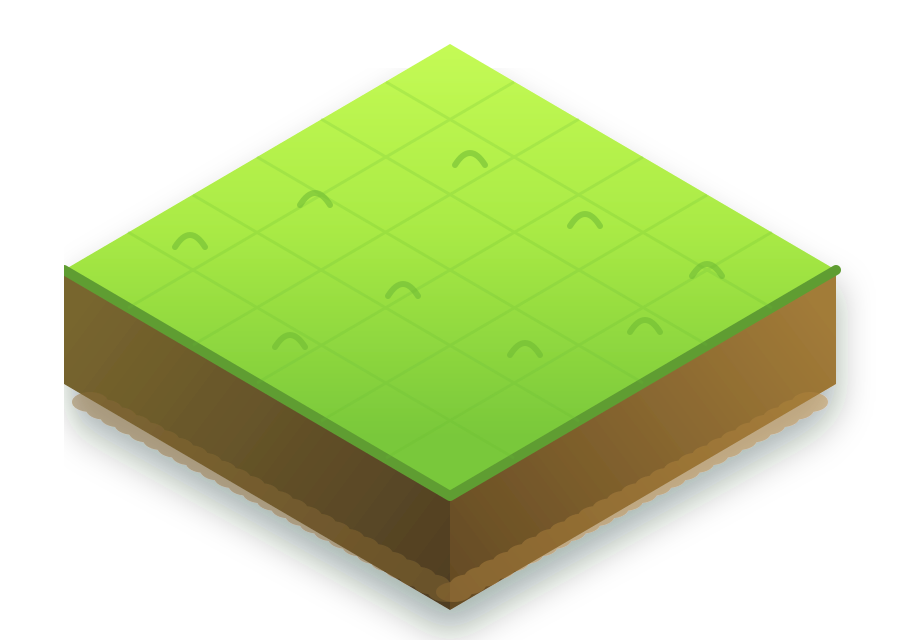
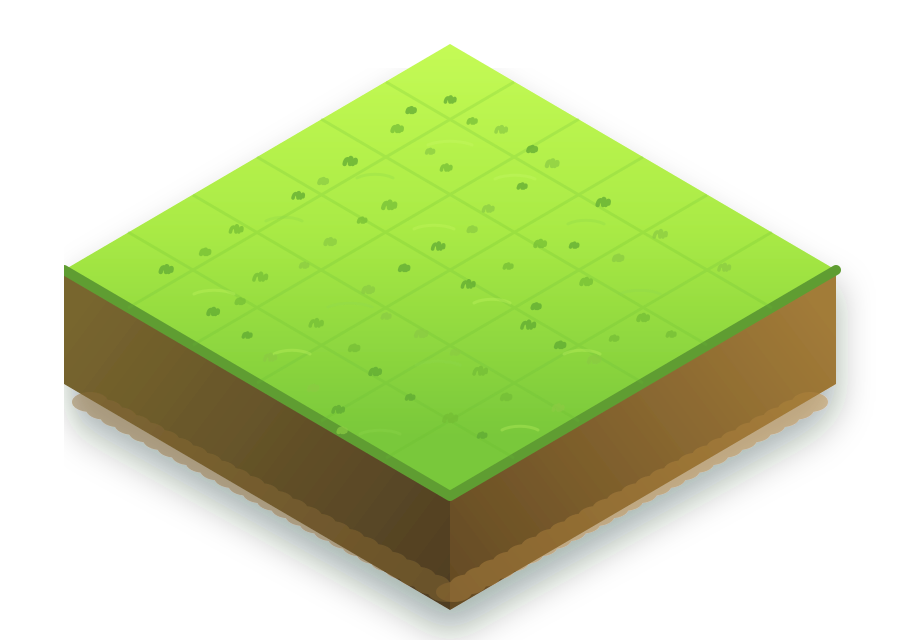
feat: enhance island SVG generation with detailed grass elements and add preview images

diff --git a/scripts/generateForestAssets.js b/scripts/generateForestAssets.js
@@ -55,19 +55,67 @@ function islandSvg() {
       }).join("")}
     </g>
 
-    <g stroke="#6cb833" stroke-width="6" stroke-linecap="round" opacity="0.55">
-      <path d="M175 247C185 231 195 231 205 247"/>
-      <path d="M300 205C310 189 320 189 330 205"/>
-      <path d="M455 165C465 149 475 149 485 165"/>
-      <path d="M570 226C580 210 590 210 600 226"/>
-      <path d="M692 276C702 260 712 260 722 276"/>
-      <path d="M388 296C398 280 408 280 418 296"/>
-      <path d="M510 355C520 339 530 339 540 355"/>
-      <path d="M275 347C285 331 295 331 305 347"/>
-      <path d="M630 332C640 316 650 316 660 332"/>
-    </g>
+    ${grassDetails()}
   </g>
 </svg>`;
+}
+
+function grassDetails() {
+  const tufts = [
+    [450, 102, 0.58], [397, 131, 0.56], [501, 132, 0.62],
+    [350, 164, 0.68], [446, 170, 0.58], [552, 166, 0.64],
+    [298, 198, 0.62], [389, 208, 0.72], [488, 211, 0.58], [603, 205, 0.68],
+    [236, 232, 0.7], [330, 244, 0.56], [438, 249, 0.68], [540, 246, 0.58], [660, 237, 0.72],
+    [166, 272, 0.66], [260, 280, 0.76], [368, 292, 0.58], [468, 287, 0.7], [586, 284, 0.58], [724, 270, 0.64],
+    [213, 314, 0.58], [316, 326, 0.72], [421, 336, 0.62], [528, 328, 0.76], [643, 320, 0.58],
+    [270, 360, 0.66], [375, 374, 0.58], [480, 374, 0.74], [594, 362, 0.64],
+    [338, 412, 0.62], [450, 421, 0.72], [558, 410, 0.58],
+    [411, 112, 0.44], [472, 123, 0.48], [323, 183, 0.46], [522, 188, 0.46],
+    [205, 254, 0.5], [304, 267, 0.44], [404, 270, 0.5], [508, 268, 0.46], [618, 260, 0.5],
+    [247, 337, 0.46], [354, 350, 0.5], [455, 354, 0.44], [560, 347, 0.5], [671, 336, 0.46],
+    [313, 390, 0.5], [410, 399, 0.44], [506, 399, 0.5],
+    [430, 153, 0.42], [532, 151, 0.46], [362, 222, 0.44], [472, 231, 0.42],
+    [574, 247, 0.44], [240, 303, 0.42], [386, 318, 0.46], [536, 308, 0.42],
+    [614, 340, 0.44], [342, 432, 0.42], [482, 437, 0.44],
+  ];
+
+  const softStrokes = [
+    [450, 145, 22], [375, 178, 18], [515, 179, 20], [284, 221, 18], [434, 229, 20],
+    [586, 224, 18], [214, 294, 20], [350, 307, 22], [492, 303, 18], [640, 294, 20],
+    [292, 354, 18], [438, 365, 22], [582, 354, 18], [380, 434, 20], [520, 430, 18],
+  ];
+
+  const tuftPaths = tufts.map(([x, y, scale], index) => {
+    const color = index % 3 === 0 ? "#5da832" : index % 3 === 1 ? "#73bd34" : "#8acb43";
+    const width = (3.6 + (index % 2) * 0.8).toFixed(1);
+    const left = coord(x - 8 * scale);
+    const right = coord(x + 8 * scale);
+    const center = coord(x);
+    const yBase = coord(y);
+    const yLeftTop = coord(y - 11 * scale);
+    const yCenterTop = coord(y - 15 * scale);
+    const yRightTop = coord(y - 10 * scale);
+    return `<g stroke="${color}" stroke-width="${width}" stroke-linecap="round" opacity="0.72">
+      <path d="M${left} ${yBase}C${coord(x - 7 * scale)} ${coord(y - 6 * scale)} ${coord(x - 3 * scale)} ${yLeftTop} ${center} ${coord(y - 3 * scale)}"/>
+      <path d="M${center} ${yBase}C${coord(x - 1 * scale)} ${coord(y - 7 * scale)} ${coord(x + 2 * scale)} ${yCenterTop} ${coord(x + 3 * scale)} ${coord(y - 2 * scale)}"/>
+      <path d="M${coord(x + 4 * scale)} ${yBase}C${coord(x + 6 * scale)} ${coord(y - 5 * scale)} ${coord(x + 10 * scale)} ${yRightTop} ${right} ${coord(y - 2 * scale)}"/>
+    </g>`;
+  }).join("");
+
+  const strokePaths = softStrokes.map(([x, y, width], index) => {
+    const color = index % 2 === 0 ? "#c8f765" : "#8ed64b";
+    return `<path d="M${x - width} ${y}C${x - Math.round(width / 2)} ${y - 5} ${x + Math.round(width / 2)} ${y - 5} ${x + width} ${y}" stroke="${color}" stroke-width="3" stroke-linecap="round" opacity="0.3"/>`;
+  }).join("");
+
+  return `
+    <g>
+      ${strokePaths}
+      ${tuftPaths}
+    </g>`;
+}
+
+function coord(value) {
+  return Number(value.toFixed(1));
 }
 
 function gridLines(divisions) {